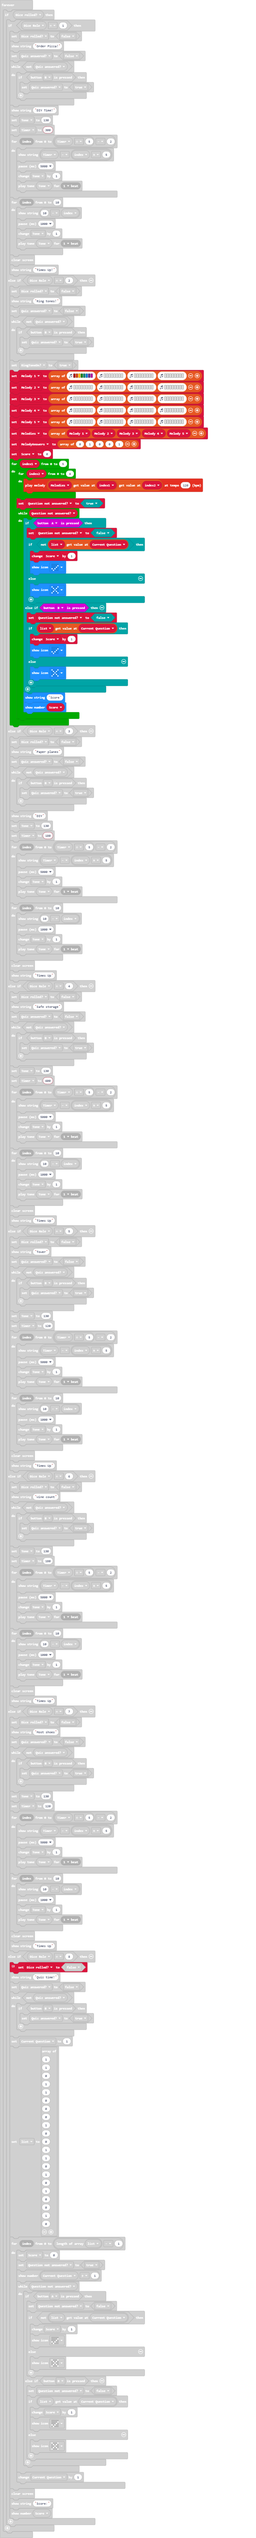
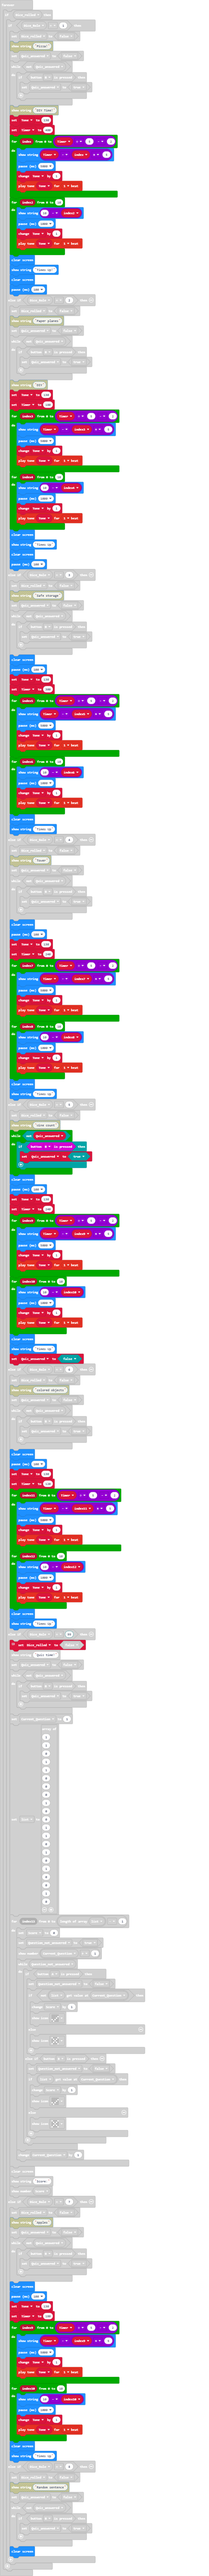
Final version, minimal text, fixed screen issues

Changed region(s): [[0.0295, 0.0, 0.8251, 1.0]]

diff --git a/main.ts b/main.ts
@@ -31,14 +31,14 @@ basic.forever(function () {
     if (Dice_rolled) {
         if (Dice_Role == 1) {
             Dice_rolled = false
-            basic.showString("Pizza!")
             Quiz_answered = false
             while (!(Quiz_answered)) {
                 if (input.buttonIsPressed(Button.B)) {
                     Quiz_answered = true
                 }
             }
-            basic.showString("DIY Time!")
+            basic.clearScreen()
+            basic.pause(100)
             Tone = 130
             Timer = 480
             for (let index = 0; index <= Timer / 5 - 2; index++) {
@@ -57,14 +57,14 @@ basic.forever(function () {
             basic.showString("Times Up!")
         } else if (Dice_Role == 2) {
             Dice_rolled = false
-            basic.showString("Paper planes")
             Quiz_answered = false
             while (!(Quiz_answered)) {
                 if (input.buttonIsPressed(Button.B)) {
                     Quiz_answered = true
                 }
             }
-            basic.showString("DIY")
+            basic.clearScreen()
+            basic.pause(100)
             Tone = 130
             Timer = 180
             for (let index3 = 0; index3 <= Timer / 5 - 2; index3++) {
@@ -83,13 +83,14 @@ basic.forever(function () {
             basic.showString("Times Up")
         } else if (Dice_Role == 3) {
             Dice_rolled = false
-            basic.showString("Safe storage")
             Quiz_answered = false
             while (!(Quiz_answered)) {
                 if (input.buttonIsPressed(Button.B)) {
                     Quiz_answered = true
                 }
             }
+            basic.clearScreen()
+            basic.pause(100)
             Tone = 130
             Timer = 300
             for (let index5 = 0; index5 <= Timer / 5 - 2; index5++) {
@@ -108,13 +109,14 @@ basic.forever(function () {
             basic.showString("Times Up")
         } else if (Dice_Role == 4) {
             Dice_rolled = false
-            basic.showString("Tower")
             Quiz_answered = false
             while (!(Quiz_answered)) {
                 if (input.buttonIsPressed(Button.B)) {
                     Quiz_answered = true
                 }
             }
+            basic.clearScreen()
+            basic.pause(100)
             Tone = 130
             Timer = 240
             for (let index7 = 0; index7 <= Timer / 5 - 2; index7++) {
@@ -133,12 +135,14 @@ basic.forever(function () {
             basic.showString("Times Up")
         } else if (Dice_Role == 5) {
             Dice_rolled = false
-            basic.showString("Wine count")
+            Quiz_answered = false
             while (!(Quiz_answered)) {
                 if (input.buttonIsPressed(Button.B)) {
                     Quiz_answered = true
                 }
             }
+            basic.clearScreen()
+            basic.pause(100)
             Tone = 130
             Timer = 240
             for (let index9 = 0; index9 <= Timer / 5 - 2; index9++) {
@@ -157,13 +161,14 @@ basic.forever(function () {
             basic.showString("Times Up")
         } else if (Dice_Role == 6) {
             Dice_rolled = false
-            basic.showString("colored objects")
             Quiz_answered = false
             while (!(Quiz_answered)) {
                 if (input.buttonIsPressed(Button.B)) {
                     Quiz_answered = true
                 }
             }
+            basic.clearScreen()
+            basic.pause(100)
             Tone = 130
             Timer = 120
             for (let index11 = 0; index11 <= Timer / 5 - 2; index11++) {
@@ -180,9 +185,10 @@ basic.forever(function () {
             }
             basic.clearScreen()
             basic.showString("Times Up")
-        } else if (Dice_Role == 7) {
+        } else if (Dice_Role == 99) {
             // Quiz answering done
             Dice_rolled = false
+            // 
             basic.showString("Quiz time!")
             Quiz_answered = false
             while (!(Quiz_answered)) {
@@ -222,13 +228,14 @@ basic.forever(function () {
             basic.showNumber(Score)
         } else if (Dice_Role == 7) {
             Dice_rolled = false
-            basic.showString("Apples")
             Quiz_answered = false
             while (!(Quiz_answered)) {
                 if (input.buttonIsPressed(Button.B)) {
                     Quiz_answered = true
                 }
             }
+            basic.clearScreen()
+            basic.pause(100)
             Tone = 130
             Timer = 180
             for (let index9 = 0; index9 <= Timer / 5 - 2; index9++) {
@@ -247,13 +254,13 @@ basic.forever(function () {
             basic.showString("Times Up")
         } else if (Dice_Role == 8) {
             Dice_rolled = false
-            basic.showString("Random sentence")
             Quiz_answered = false
             while (!(Quiz_answered)) {
                 if (input.buttonIsPressed(Button.B)) {
                     Quiz_answered = true
                 }
             }
+            basic.clearScreen()
         }
     }
 })
